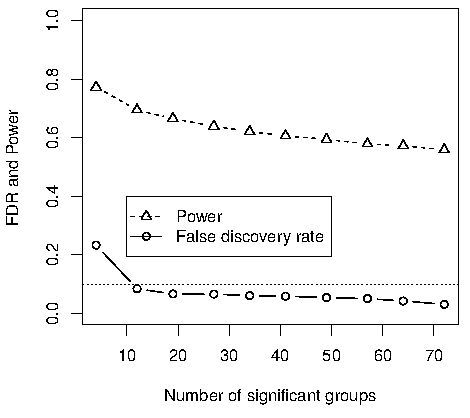
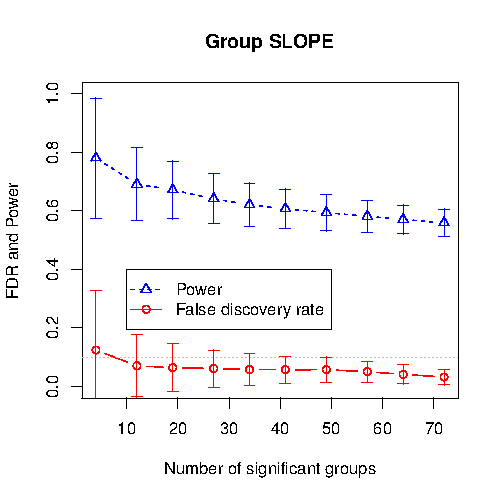
updates the group SLOPE figures to have error bars and color

diff --git a/GroupSLOPE.html b/GroupSLOPE.html
@@ -513,8 +513,6 @@ For a general model matrix $X$ the above motivates the following approach:
             <script type="text/template">
 ## Simulation results
 
-### Group SLOPE
-
 ![Group SLOPE FDR plot](images/GroupSLOPE/GroupSLOPE_FDRandPower_highWithinGrpCor.png)
 
 * within group correlations $\approx 0.99$
@@ -525,8 +523,6 @@ For a general model matrix $X$ the above motivates the following approach:
           <section data-markdown>
             <script type="text/template">
 ## Simulation results
-
-### CV Group LASSO
 
 ![CV Group LASSO FDR plot](images/GroupSLOPE/CVGroupLASSO_FDRandPower_highWithinGrpCor.png)
 
@@ -539,8 +535,6 @@ For a general model matrix $X$ the above motivates the following approach:
             <script type="text/template">
 ## Simulation results
 
-### Group SLOPE
-
 ![Group SLOPE FDR plot](images/GroupSLOPE/GroupSLOPE_FDRandPower_moderateWithinGrpCor.png)
 
 * within group correlations $\approx 0.7$
@@ -551,8 +545,6 @@ For a general model matrix $X$ the above motivates the following approach:
           <section data-markdown>
             <script type="text/template">
 ## Simulation results
-
-### CV Group LASSO
 
 ![CV Group LASSO FDR plot](images/GroupSLOPE/CVGroupLASSO_FDRandPower_moderateWithinGrpCor.png)
 
